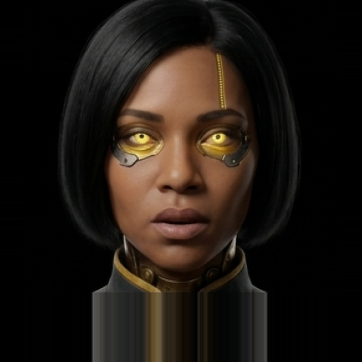
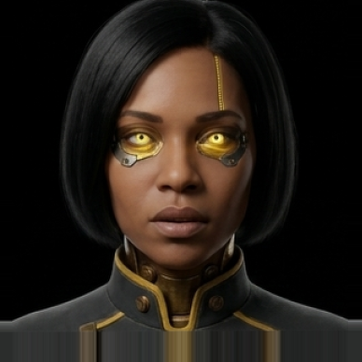
Vector had no shoulders, and nothing was checking
She rendered as a floating head in the swarm. Her MASTER has a body — 87.8% of
its bottom row is subject — but the sprite sheet quietly tightened the crop to a
head-only portrait and her frames came out at 28.7%, against 86-97% for every
sibling. The sheet prompt asked for "identical framing and crop within each cell",
which the model satisfied: all twelve cells agreed with each other. It just did not
agree with the reference image.

So the prompt now demands the MASTER's crop specifically — head and shoulders,
upper chest filling the bottom of every cell — and a gate measures it, because a
missing body is exactly the kind of defect that looks fine cell-by-cell.

Threshold 45%, set in the measured gap rather than guessed: the real failure was
28.7% and the narrowest legitimate silhouette is Sentinel at 54.7%, whose hood is a
tighter outline than anyone else's shoulders. The first cut at 55% condemned her —
a bar chosen before seeing the character it would judge.

10/10 frame sets pass. Vector's bottom row: 28.7% -> 98.9%.

diff --git a/scripts/cast-frames.py b/scripts/cast-frames.py
@@ -108,7 +108,11 @@ exactly as cell 1, EXCEPT cell 12 which is noted. Only the eyes and brows change
 
 WHAT MUST BE IDENTICAL IN ALL TWELVE CELLS — this is the whole point of the sheet:
   - the head is in EXACTLY the same position, at exactly the same size and angle
-  - identical framing and crop within each cell
+  - identical framing and crop within each cell, AND THE SAME CROP AS THE REFERENCE
+    IMAGE: head AND SHOULDERS, with the upper chest and shoulders filling the bottom
+    of every cell exactly as they do in the picture you were given. Do not tighten in
+    to a head-only portrait and do not leave the body out — a floating head is a
+    failure, however good the face is
   - identical lighting, identical key and rim, identical background
   - identical hair, headgear, hardware, uniform, and every lit element
   - identical skin, identical everything except the one feature named per cell
@@ -427,6 +431,21 @@ def verify(name, directory=None):
         eyes_worst = max(eyes_worst, (de[int(h * 0.28):int(h * 0.52), :] > 18).mean() * 100)
     if eyes_worst > 1.0:
         notes.append(f"eyes move while talking ({eyes_worst:.1f}%) — mouth frames must share mouth-0's eyes")
+
+    # 2c. the BODY must still be there. The sheet is asked to preserve the master's
+    #     crop, and on one character it quietly did not: Vector came back as a head
+    #     with almost no shoulders (28.7% of the bottom row was subject, against
+    #     86-97% for every sibling and 87.8% in her own master). She rendered as a
+    #     floating head in the swarm and nothing caught it.
+    gb = cv2.cvtColor(imgs[0], cv2.COLOR_BGR2GRAY)
+    body = (gb[int(h * 0.95):, :] > 28).mean() * 100
+    #     Threshold 45%, set in the measured gap: the real failure was 28.7% and the
+    #     narrowest legitimate silhouette is Sentinel at 54.7% (her hood is a tighter
+    #     outline than anyone else's shoulders). 55% was chosen before I had seen her
+    #     and condemned a character whose body is plainly there.
+    if body < 45.0:
+        notes.append(f"body missing: bottom row only {body:.0f}% subject (need 45%) — "
+                     f"the sheet cropped the shoulders off")
 
     # 3. the blink must leave the MOUTH exactly where mouth-0 has it.
     #    The blink is crossfaded over whatever mouth frame is showing, so a blink
